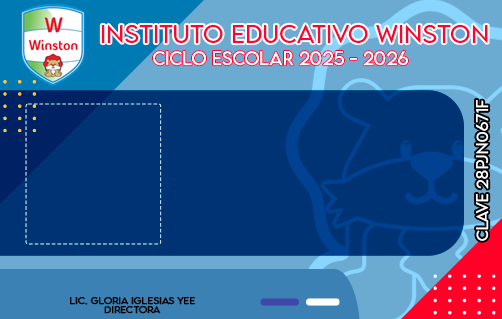
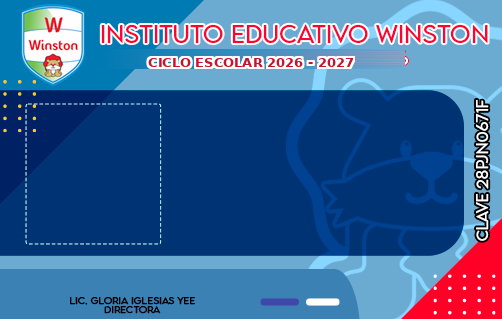
fix(credenciales): ciclo escolar 2026-2027 en fondos de plantilla
Actualiza el texto CICLO ESCOLAR en kinder/primaria/secundaria y evita
hardcodear el fallback de ciclo en el módulo.

Changed region(s): [[0.2689, 0.1411, 0.8068, 0.2257]]

diff --git a/src/app/servicios/modulos/CredencialesModulo.tsx b/src/app/servicios/modulos/CredencialesModulo.tsx
@@ -11,6 +11,7 @@ import {
   Users,
 } from 'lucide-react'
 import { useCicloEscolar } from '@/contexts/CicloEscolarContext'
+import { getCicloEscolarActual } from '@/lib/ciclosEscolares'
 import { gradoOpcionesPorNivel } from '@/lib/gradoEscolar'
 import { NIVELES_ESCOLARES_OPCIONES } from '@/lib/nivelEscolar'
 import { NIVELES_CREDENCIAL, urlVistaPreviaFondo } from '@/lib/credencialesConfig'
@@ -41,7 +42,8 @@ export default function CredencialesModulo() {
   const [fondoBust, setFondoBust] = useState(Date.now())
   const [mensajeFondo, setMensajeFondo] = useState<string | null>(null)
 
-  const cicloEfectivo = cicloReporte ?? cicloSeleccionado ?? cicloActualSistema ?? 22
+  const cicloEfectivo =
+    cicloReporte ?? cicloSeleccionado ?? cicloActualSistema ?? getCicloEscolarActual()
   const opcionesGrado = useMemo(() => {
     if (!nivel) return [{ valor: 0, etiqueta: 'Todos los grados' }]
     return [{ valor: 0, etiqueta: 'Todos los grados' }, ...gradoOpcionesPorNivel(nivel)]
